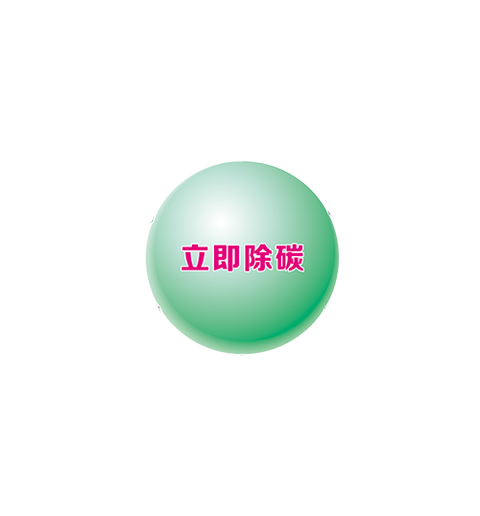
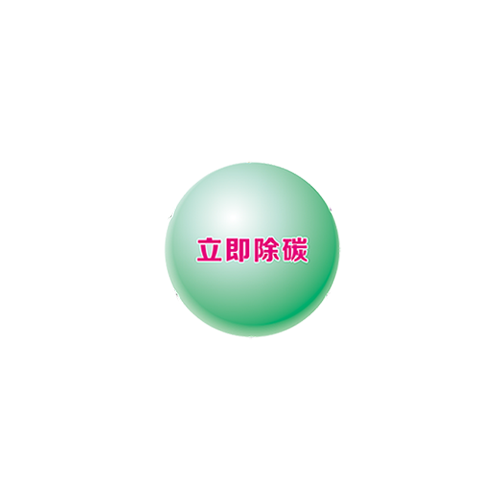
sute version,rotate ok
rotate need update

Changed region(s): [[0.2812, 0.3, 0.7188, 0.69]]

diff --git a/App/Home/View/default/Index/v2.tpl.html b/App/Home/View/default/Index/v2.tpl.html
@@ -1,11 +1,15 @@
 {{include file="Public:header" /}}
 {{assign name="hide_menu_bottom" value="true" /}}
 <style>
+html {
+    -webkit-font-smoothing: antialiased; /* 1 */
+    -webkit-text-size-adjust: 100%; /* 2 */
+}
 .ui-slider-content span {background-size:cover;}
 </style>
 <script src="__PUBLIC__/Home/js/index.js" type="text/javascript"></script>
     <body ontouchstart style="visibility:hidden;">
-      <h3 style="position:relative;">
+      <h3 style="position:relative;display:none;">
         <div class="ui-slider" style="">
         <?php
             $_slideArr = array(
@@ -24,11 +28,9 @@
       </h3>
     <section class="rotate-module"> 
         <dl class="rotate-module-in">    
-            <dt class="rotate-img"><img src="__PUBLIC__/Home/img/rotate_module.png" /></dt>
+            <dt class="rotate-img"><img src="__PUBLIC__/Home/img/rotate_module.png" /></dt> 
             
-            
-            <dd id="rotate-blk">
-                <img src="__PUBLIC__/Home/img/rotate_warp.png" />
+            <dd id="rotate-blk" class="rotate-blk">
                 <div class="link-i-com abs-rotate"><a 
                     href="{{:U('/Page/index/key/company')}}">&nbsp;</a></div>
                 <div class="link-i-store abs-rotate"><a href="{{:U('/Merchants')}}">&nbsp;</a></div>
@@ -40,45 +42,82 @@
                 <div class="link-i-article abs-rotate"><a href="{{:U('/Article')}}">&nbsp;</a></div>
                 <div class="link-i-form abs-rotate"><a href="{{:U('/Cylinder')}}">&nbsp;</a></div>
             </dd>
+            <dd class="rotate-id-img"><img src="__PUBLIC__/Home/img/rotate_warp.png" id="rotate-img" /></dd>
         </dl>
     </section><!-- /.ui-container-->
+    
 
 {{include file="Public:footer" /}}
 <script src="__STATIC__/jquery/touch.js"></script>
 <script>
+var angle = 0,startY,startX,startRot = true;
+touch.on('#rotate-img', 'touchstart', function(ev){
+    ev.startRotate();
+    ev.preventDefault();
+    startY = ev.targetTouches[0].pageY;
+    startX = ev.targetTouches[0].pageX;
+});
+/*
+offsetHeight
+offsetLeft
+offsetTop
+offsetWidth
+*/
+touch.on('#rotate-img','touchend',function(ev){
+    if ((Math.abs(ev.changedTouches[0].pageY - startY) < 5)&&
+        (Math.abs(ev.changedTouches[0].pageX - startX) < 5)) {
+        $.each($(".abs-rotate a"),function(i,n){
+            var _h = parseFloat($(n).height()),_w = parseFloat($(n).width()),
+            _x = $(n).offset().left,_y = $(n).offset().top;
+            var _py = ev.changedTouches[0].pageY,_px = ev.changedTouches[0].pageX;
+            //console.log("h:"+_h + "w:"+_w + "x:"+_x + "y:"+_y + "py:"+_py + "px:"+_px)
+            if(_x <= _px && (_x + _w) > _px && _y <= _py && (_y + _h) > _py){
+                if($(n).parent().hasClass("link-i-form")){
+                    $(".rotate-img").addClass("click_down");
+                    setTimeout(function(){
+                        window.location.href = $(n).attr("href");
+                        $(".rotate-img").removeClass("click_down");
+                    },500);
+                }else{
+                    window.location.href = $(n).attr("href");
+                }
+            }
+        })
+        setTimeout(function(){ev.target.click();},100)
+    }else{
+        $(".rotate-blk").css({"z-index":0});
+    }
+})
+
+touch.on('#rotate-img', 'rotate', function(ev){
+    _rotate = Math.abs(ev.rotation * 1.8);
+    if(ev.direction === 'left'){
+        _rotate = -_rotate;
+    }
+    var totalAngle = angle + _rotate;
+    if(ev.fingerStatus === 'end'){
+        angle = angle + _rotate;
+        startRot = true;
+    }
+    var _rotateObj = document.getElementById("rotate-img");
+    var _rotateBlk = document.getElementById("rotate-blk");
+    //$("#rotate-blk-2").css({"webkitTransform":"rotate(" + totalAngle  + "deg)"});
+    _rotateObj.style.webkitTransform = 'rotate(' + totalAngle + 'deg)';
+    _rotateBlk.style.webkitTransform = 'rotate(' + totalAngle + 'deg)';
+    //this.style.webkitTransform = 'rotate(' + totalAngle + 'deg)';
+});
 $(function(){
     $("body").css({"visibility":"visible"});
     setTimeout(function(){
         $("#rotate-blk").addClass('ani-start');
     },300)
-    var angle = 0,startY,startX;
-    touch.on('#rotate-blk', 'touchstart', function(ev){
-        ev.startRotate();
-        ev.preventDefault();
-        startY = ev.targetTouches[0].pageY;
-        startX = ev.targetTouches[0].pageX;
-    });
-    touch.on('#rotate-blk','touchend',function(ev){
-        if ((Math.abs(ev.changedTouches[0].pageY - startY) < 5)&&
-            (Math.abs(ev.changedTouches[0].pageX - startX) < 5)) {
-            ev.target.click();
-        }
-        ev.preventDefault();
-    })
-
-    touch.on('#rotate-blk', 'rotate', function(ev){
-        var totalAngle = angle ;
-        if(ev.fingerStatus === 'move'){
-            angle = angle + ev.rotation ;
-        }
-        $("#rotate-blk").css({"webkitTransform":"rotate(" + totalAngle * 1.1 + "deg)"});
-
-        //this.style.webkitTransform = 'rotate(' + totalAngle + 'deg)';
-    });
+    
     $(".link-i-form").on("click",function(){
         $(".rotate-img").addClass("click_down");
     })
+
 })
+
 </script>   
 
 

diff --git a/Public/Home/css/style.css b/Public/Home/css/style.css
@@ -238,7 +238,8 @@ figure{position:relative;}
 .btn-block {display:block;position:relative;text-align:center;line-height:30px;}
 .ui-container .ui-list {background-color:transparent;}
 
-.rotate-module-in {position:relative;margin:15px;}
+.rotate-module {text-align: center;}
+.rotate-module-in {position:relative;margin:15px;display:inline-block;}
 .rotate-img {
     transition:All 0.1s ease-in-out;
 -webkit-transition:All 0.1s ease-in-out;
@@ -246,9 +247,6 @@ figure{position:relative;}
 -o-transition:All 0.1s ease-in-out;
 transform:rotate(0deg) scale(1);
 -webkit-transform:rotate(0deg) scale(1);
--moz-transform:rotate(0deg) scale(1);
--o-transform:rotate(0deg) scale(1);
--ms-transform:rotate(0deg) scale(1);
 }
 .rotate-img.click_down {
     transform:rotate(30deg) scale(0.8);
@@ -257,27 +255,22 @@ transform:rotate(0deg) scale(1);
 -o-transform:rotate(30deg) scale(0.8);
 -ms-transform:rotate(30deg) scale(0.8);
 }
-#rotate-link {position: absolute;top:0;left:0;width:100%;height:100%;}
-#rotate-blk {
+
+.rotate-blk {
+    width:100%; height:100%;
+    -webkit-user-drag: none;
+display:inline-block;
 position:absolute;top:0;left:0;overflow:hidden;
-transition:All 0.4s ease-in-out;
--webkit-transition:All 0.4s ease-in-out;
--moz-transition:All 0.4s ease-in-out;
--o-transition:All 0.4s ease-in-out;
-transform:rotate(0deg) scale(0.8);
--webkit-transform:rotate(0deg) scale(0.8);
--moz-transform:rotate(0deg) scale(0.8);
--o-transform:rotate(0deg) scale(0.8);
--ms-transform:rotate(0deg) scale(0.8);
+transition:All 0.6s ease;
+-webkit-transition:All 0.6s ease;
+transform:rotate(0deg) ;
+-webkit-transform:rotate(0deg);
 }
-#rotate-blk.ani-start {
-    transform:rotate(360deg) scale(1);
-    -webkit-transform:rotate(360deg) scale(1);
-    -moz-transform:rotate(360deg) scale(1);
-    -o-transform:rotate(360deg) scale(1);
-    -ms-transform:rotate(360deg) scale(1);
+.rotate-blk.ani-start {
+    transform:rotate(360deg);
+    -webkit-transform:rotate(360deg);
 }
-#rotate-blk dt.rotate-img img{float:left;width:100%;}
+.rotate-blk  img{float:left;width:100%;}
 .abs-rotate {position:absolute;width:30%;height:30%;}
 .link-i-com {top:18%;}
 .link-i-store {left:33%;top:0;}
@@ -287,5 +280,10 @@ transform:rotate(0deg) scale(0.8);
 .link-i-article {bottom:18%;}
 .link-i-form {top:35%;left:35%;}
 .rotate-module-in div a {display: block;width:100%;height:100%;z-index:10;}
+.rotate-id-img {position: absolute;top:0;left:0;}
+.rotate-id-img img {float:left;}
+
+
+
 
 
